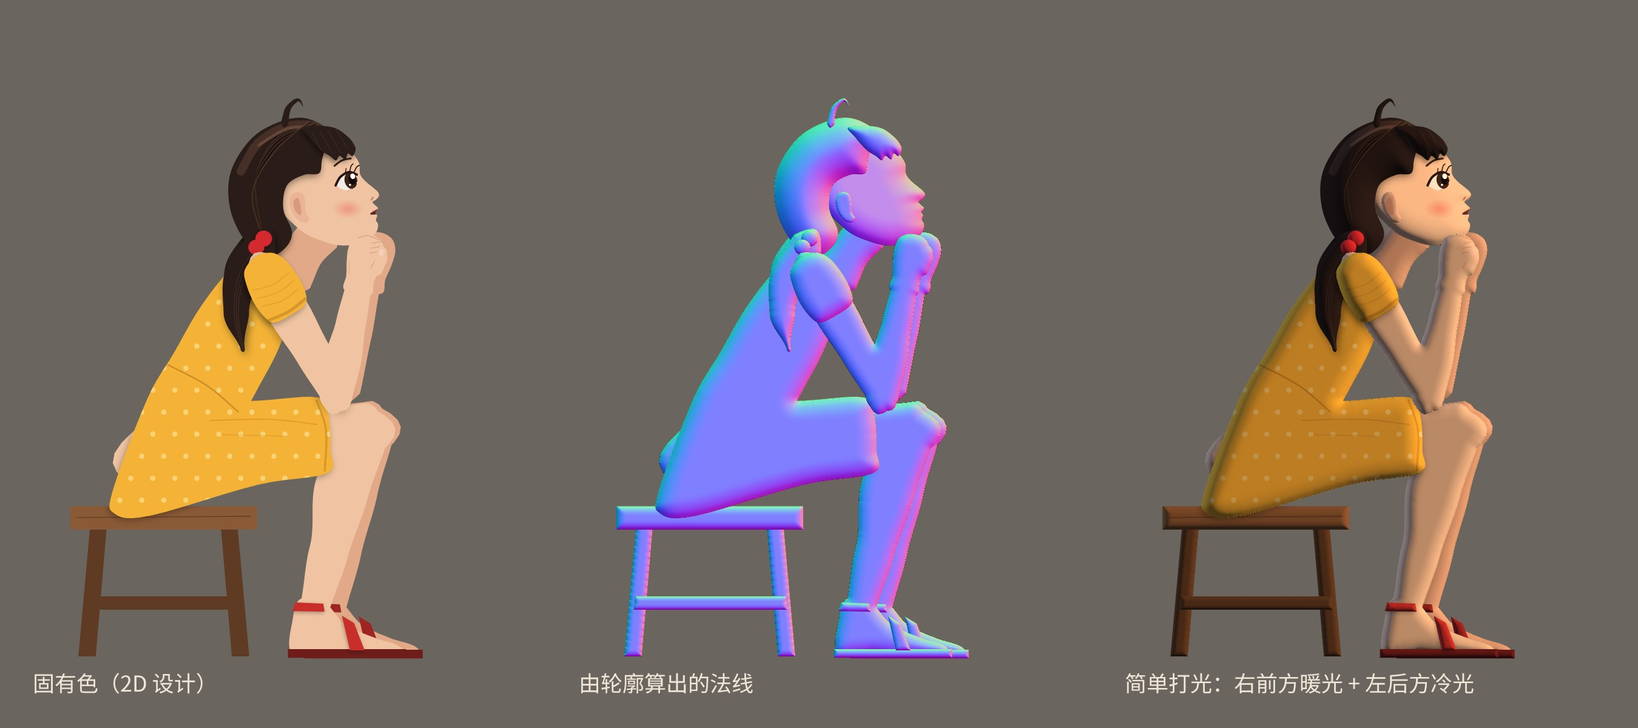
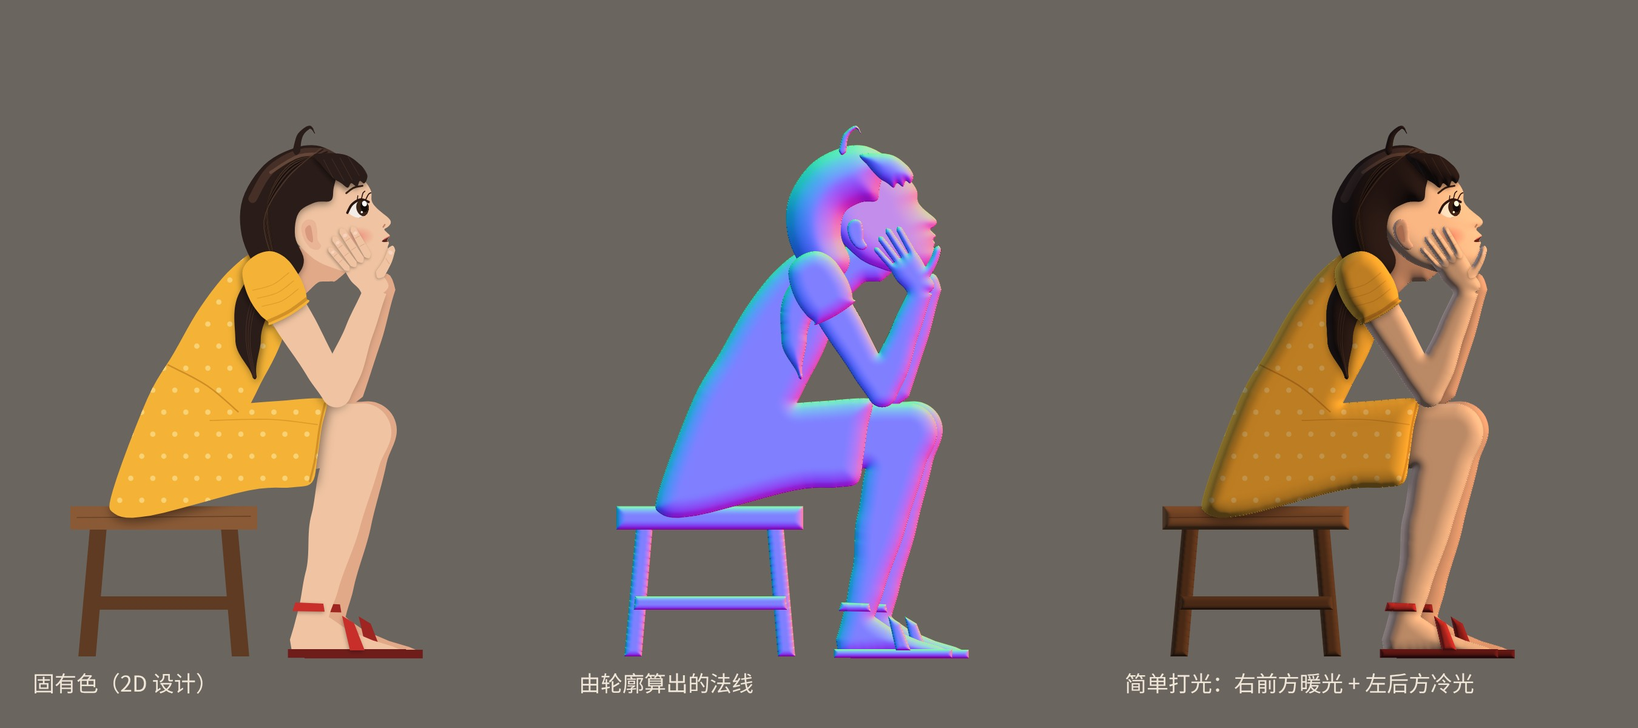
小满：四肢改为一笔外轮廓、手张开托腮、衣服包住身体；修正姿势在两个解之间逐帧跳动
- 整条腿、整条胳膊各是一条连续轮廓：关节外侧是圆弧、内侧是褶，不再是管子拼出的球关节
- 手背朝外、四根手指分开搭在脸颊上，大拇指顺着下颌
- 裙子顺着大腿面盖下来、裙摆斜着包住大腿；泡泡袖的袖口箍住胳膊
- 姿势求解只取前臂竖的那一支并用二分求根（之前两个解来回跳，人在画面里一伸一缩）
- 文档：人物设计说明、AI 使用记录

Claude-Session: https://claude.ai/code/session_018izVeBsCAWYGJUmZwpX2YC

diff --git a/js/lamp/xiaoman.js b/js/lamp/xiaoman.js
@@ -32,6 +32,48 @@ function ellipse(cx, cy, rx, ry, rotA = 0, n = 28) {
   return out;
 }
 
+
+// 一笔画出整条四肢的外轮廓（A 根 → B 关节 → C 末端），像画师画人体那样：
+//   弯曲的外侧绕着关节画一段圆弧（膝盖骨、肘尖），内侧两条轮廓线在关节处相交、挤出一道褶（膝窝、肘窝）；
+//   末端接上脚或手腕。这样整条腿/胳膊是一块连续的肉，不会像拼起来的管子那样在关节处鼓出"球关节"。
+// w1p/w1m：第一段在 +n / −n 两侧的半宽 [[t, w], ...]；w2p/w2m：第二段。extremity(pEnd, mEnd) 返回从 + 侧末端绕到 − 侧末端的点。
+function limbOutline(A, B, C, w1p, w1m, w2p, w2m, extremity = null, step = 0.6) {
+  const sub2 = (a, b) => [a[0] - b[0], a[1] - b[1]], add2 = (a, b) => [a[0] + b[0], a[1] + b[1]], mul2 = (a, k) => [a[0] * k, a[1] * k];
+  const prof = (w, t) => { if (t <= w[0][0]) return w[0][1]; for (let i = 1; i < w.length; i++) if (t <= w[i][0]) { const k = (t - w[i - 1][0]) / (w[i][0] - w[i - 1][0]), e = k * k * (3 - 2 * k); return w[i - 1][1] + (w[i][1] - w[i - 1][1]) * e; } return w[w.length - 1][1]; };
+  const L1 = Math.hypot(...sub2(B, A)), L2 = Math.hypot(...sub2(C, B));
+  const d1 = mul2(sub2(B, A), 1 / L1), d2 = mul2(sub2(C, B), 1 / L2), n1 = [-d1[1], d1[0]], n2 = [-d2[1], d2[0]];
+  const outer = d1[0] * d2[1] - d1[1] * d2[0] > 0 ? -1 : 1;     // 往左拐时 +n 侧在里面
+  const side = (sg, wa, wb) => {
+    const pts = [];
+    const o1 = (t) => add2(add2(A, mul2(d1, L1 * t)), mul2(n1, sg * prof(wa, t)));
+    const o2 = (t) => add2(add2(B, mul2(d2, L2 * t)), mul2(n2, sg * prof(wb, t)));
+    const N1 = Math.max(4, Math.ceil(L1 / step)), N2 = Math.max(4, Math.ceil(L2 / step));
+    if (sg === outer) {
+      for (let i = 0; i <= N1; i++) pts.push(o1(i / N1));
+      // 绕关节的圆弧，半径从第一段末端的半宽过渡到第二段起点的半宽
+      const a0 = Math.atan2(sg * n1[1], sg * n1[0]); let a1 = Math.atan2(sg * n2[1], sg * n2[0]);
+      let da = a1 - a0; while (da > Math.PI) da -= 2 * Math.PI; while (da < -Math.PI) da += 2 * Math.PI;
+      const r0 = prof(wa, 1), r1 = prof(wb, 0), K = Math.max(3, Math.ceil(Math.abs(da) * 8));
+      for (let k = 1; k < K; k++) { const u = k / K, a = a0 + da * u, r = r0 + (r1 - r0) * u; pts.push(add2(B, [Math.cos(a) * r, Math.sin(a) * r])); }
+      for (let i = 0; i <= N2; i++) pts.push(o2(i / N2));
+    } else {
+      // 里侧：两条轮廓线的交点就是褶
+      const p = add2(B, mul2(n1, sg * prof(wa, 1))), q = add2(B, mul2(n2, sg * prof(wb, 0)));
+      const den = d1[0] * d2[1] - d1[1] * d2[0];
+      let u = 0, v = 0;
+      if (Math.abs(den) > 1e-4) { const w = sub2(q, p); u = (w[0] * d2[1] - w[1] * d2[0]) / den; v = (w[0] * d1[1] - w[1] * d1[0]) / den; }
+      u = Math.max(-L1 * 0.6, Math.min(0, u)); v = Math.max(0, Math.min(L2 * 0.6, v));
+      for (let i = 0; i <= N1; i++) { const t = i / N1; if (L1 * t - L1 > u) break; pts.push(o1(t)); }
+      pts.push(add2(p, mul2(d1, u)));
+      for (let i = 0; i <= N2; i++) { const t = i / N2; if (L2 * t < v) continue; pts.push(o2(t)); }
+    }
+    return pts;
+  };
+  const P = side(1, w1p, w2p), M = side(-1, w1m, w2m);
+  const ext = extremity ? extremity(P[P.length - 1], M[M.length - 1]) : [];
+  return [...P, ...ext, ...M.reverse()];
+}
+
 // pose：{ lean 身体前倾（弧度）, headUp 抬头（弧度）, mouth 0..1, blink 0..1, pig 辫子摆动（弧度）, breathe 0..1 }
 // map(p)：局部厘米 → 画面像素
 export function parts(map, pose = {}, s = 7) {
@@ -76,18 +118,34 @@ export function parts(map, pose = {}, s = 7) {
   for (let i = 0; i < 40; i++) { const m = (lo + hi) / 2; const S = spine(m)(31, -0.6); (Math.hypot(S[0] - elbow[0], S[1] - elbow[1]) > 20 ? (lo = m) : (hi = m)); }
   const lean = (lo + hi) / 2, along = spine(lean);
   const shoulder = add(along(31, -0.6), [0, 0.3 * breathe]), neck0 = add(along(34.2, 1.4), [0, 0.3 * breathe]);
-  // 抬头角 hr；前臂角 phi 取使脖子长度最接近 6.5 厘米的那个
+  // 抬头角 hr；手腕在下巴前下方（头的局部坐标 WRIST_L），前臂 16.5 厘米 → 前臂角 phi 由"脖子露出 6.5 厘米"定。
+  // 这个条件一般有两个解（前臂竖一点 / 斜一点）。只取前臂竖的那支，并且用二分求精确的根——
+  // 之前逐帧取"误差最小"的格点，两个解来回跳，人在画面里一伸一缩。
   const hr = pose.headUp ?? 0.30;
-  const chinL = [6.3, -7.7];
-  let best = null;
-  for (let phi = 0.9; phi <= 2.1; phi += 0.004) {
-    const w = add(elbow, mul(dir(phi), 16.5)), top = add(w, mul(dir(phi), 6.6));
-    const hc = sub(top, rot(mul(chinL, HS), hr));
+  const WRIST_L = [4.9, -10.2];
+  const at = (phi) => {
+    const w = add(elbow, mul(dir(phi), 16.5));
+    const hc = sub(w, rot(mul(WRIST_L, HS), hr));
     const nb = add(hc, rot(mul([0.6, -5.2], HS), hr));
-    const e = Math.abs(Math.hypot(nb[0] - neck0[0], nb[1] - neck0[1]) - 6.5);
-    if (!best || e < best.e) best = { e, phi, w, hc };
+    return { w, hc, f: Math.hypot(nb[0] - neck0[0], nb[1] - neck0[1]) - 6.5 };
+  };
+  let phi = 1.35;
+  {
+    const roots = [];
+    let prev = at(0.8);
+    for (let x = 0.8 + 0.01; x <= 2.3; x += 0.01) {
+      const cur = at(x);
+      if (Math.sign(cur.f) !== Math.sign(prev.f)) {
+        let a = x - 0.01, b = x;
+        for (let i = 0; i < 30; i++) { const m = (a + b) / 2; (Math.sign(at(m).f) === Math.sign(at(a).f) ? (a = m) : (b = m)); }
+        roots.push((a + b) / 2);
+      }
+      prev = cur;
+    }
+    if (roots.length) phi = roots[0];                 // 前臂更竖的那一支
+    else { let bestE = Infinity; for (let x = 0.8; x <= 2.3; x += 0.005) { const e = Math.abs(at(x).f); if (e < bestE) { bestE = e; phi = x; } } }
   }
-  const phi = best.phi, wrist = best.w, head = best.hc;
+  const sol = at(phi), wrist = sol.w, head = sol.hc;
   const H = (p) => add(head, rot([p[0] * HS, p[1] * HS], hr));        // 头的局部坐标 → 身体坐标
   const sw = pose.pig ?? 0;
 
@@ -101,37 +159,46 @@ export function parts(map, pose = {}, s = 7) {
   part('stoolRung', [[-11.2, -13], [11.4, -13], [11.6, -15], [-11.4, -15]], { fill: C.stoolDark, R: 0.8, smooth: false });
   part('stoolSeat', [[-14, 0.5], [14, 0.5], [14, -3], [-14, -3]], { fill: C.stool, R: 1.4, smooth: false,
     detail: (c) => { strokeL(c, [[-13, -1.2], [13, -1.0]], 0.12, 'rgba(60,35,20,0.5)'); } });
-  // ---------------- 远侧的腿和胳膊（在暗处，颜色深一点；大半被近侧挡住）
-  const legShape = (k, a, grp, fill, extraShadow) => {
-    const kd = norm(sub(k, hip));
-    part(grp + 'Thigh', tubeL([add(hip, mul(kd, -2)), lerp(hip, k, 0.5), add(k, mul(kd, 0.6))], [[5.6, 5.8], [5.0, 5.4], [4.3, 4.4]]), { fill, R: 2.2, flat: 0.4, mat: 1, group: grp, groupR: 2.2 * s });
-    // 小腿：前面（胫骨）直，后面（小腿肚）鼓
-    part(grp + 'Shin', tubeL([add(k, [0, 0.4]), lerp(k, a, 0.32), lerp(k, a, 0.7), a], [[4.0, 4.2], [3.3, 4.9], [2.7, 3.2], [2.1, 2.3]]), { fill, R: 2.2, flat: 0.4, mat: 1, group: grp });
-    part(grp + 'Foot', footPts(a), { fill, R: 2.2, flat: 0.4, mat: 1, group: grp });
+  // ---------------- 腿：一笔外轮廓（大腿面 → 膝盖骨 → 胫骨 → 脚背 → 脚趾 → 脚底 → 脚跟 → 跟腱 → 小腿肚 → 膝窝的褶 → 大腿底面）
+  const legShape = (k, a, grp, fill, near) => {
+    const foot = (pEnd, mEnd) => [
+      [a[0] + 2.7, a[1] - 0.9], [a[0] + 5.0, a[1] - 2.5], [a[0] + 8.8, a[1] - 4.1], [a[0] + 11.8, a[1] - 5.0], [a[0] + 13.2, a[1] - 5.6],
+      [a[0] + 13.3, a[1] - 6.2], [a[0] + 12.2, a[1] - 6.5], [a[0] + 8.0, a[1] - 6.45], [a[0] + 4.6, a[1] - 6.0], [a[0] + 1.2, a[1] - 6.3],
+      [a[0] - 2.0, a[1] - 6.5], [a[0] - 3.3, a[1] - 5.8], [a[0] - 3.6, a[1] - 4.0], [a[0] - 3.0, a[1] - 2.0]];
+    const out = limbOutline(add(hip, [-1.5, 0.5]), k, a,
+      [[0, 6.0], [0.5, 5.6], [0.85, 4.8], [1, 4.4]],            // 大腿面
+      [[0, 6.0], [0.5, 5.5], [0.85, 4.6], [1, 4.3]],            // 大腿底面
+      [[0, 4.3], [0.15, 3.7], [0.5, 3.3], [0.85, 2.6], [1, 2.3]],   // 小腿前面（胫骨，几乎是直的）
+      [[0, 4.1], [0.25, 4.8], [0.5, 4.2], [0.8, 2.8], [1, 2.4]],   // 小腿肚
+      foot);
+    part(grp, out, { fill, R: 2.6, flat: 0.35, mat: 1, smooth: false,
+    });
   };
-  legShape(kneeF, ankleF, 'legF', C.skinDeep);
+  // 远侧的腿（在暗处，颜色深一点，大半被近侧挡住）
+  legShape(kneeF, ankleF, 'legF', C.skinDeep, false);
   part('sandalF', sandalPts(ankleF), { fill: C.sole, R: 0.8, smooth: false });
   strapPts(ankleF).forEach((q, i) => part('strapF' + i, q, { fill: '#9e2522', R: 0.8, smooth: false }));
-  // 远侧的拳头：在近侧拳头后面、略靠前，只露出指节
-  const fd = dir(phi), fp = [-fd[1], fd[0]];
-  const FW = (base, u, v) => add(base, add(mul(fd, u), mul(fp, v)));
-  const wristF = add(wrist, add(mul(fd, 0.6), mul(fp, -1.6)));
-  part('armF', tubeL([add(elbow, [1.4, 0.4]), lerp(add(elbow, [1.4, 0.4]), wristF, 0.5), wristF], [2.2, 2.0, 1.6]), { fill: C.skinDeep, R: 1.8, flat: 0.4, mat: 1, group: 'armF', groupR: 1.8 * s });
-  part('fistF', fistPts().map(([u, v]) => FW(wristF, u, v)), { fill: C.skinDeep, R: 1.8, flat: 0.4, mat: 1, group: 'armF' });
-  // ---------------- 近侧的腿：大腿（大半在裙子里）、膝盖、小腿、脚——一个组，膝盖和脚踝是连着的肉
-  legShape(knee, ankle, 'legN', C.skin);
+  // 远侧的前臂：在近侧胳膊后面，手托在远侧脸颊上（被头挡住）
+  const fd = dir(phi);
+  const wristF = add(wrist, [1.2, 0.6]);
+  part('armF', tubeL([add(elbow, [1.6, 0.2]), lerp(add(elbow, [1.6, 0.2]), wristF, 0.3), wristF], [2.5, 2.4, 1.9]), { fill: C.skinDeep, R: 1.9, flat: 0.4, mat: 1, smooth: false });
+  // ---------------- 近侧的腿
+  legShape(knee, ankle, 'legN', C.skin, true);
   part('sandal', sandalPts(ankle), { fill: C.sole, R: 0.8, smooth: false });
   strapPts(ankle).forEach((q, i) => part('strap' + i, q, { fill: C.sandal, R: 0.8, smooth: false, shadow: [-0.1, -0.2, 0.3, 0.3] }));
   // ---------------- 身体 + 裙子：后背微微拱起（身子前倾）；裙子盖住大腿到膝盖上面一点
-  const hemT = 0.8;
+  // 裙子顺着大腿面盖下来（裙子上沿 = 大腿面 + 布的厚度），裙摆斜着包住大腿：上面盖到膝盖前一点，下面短一点，
+  // 在大腿底下垂一点。膝盖和小腿从裙摆底下自然伸出来，裙摆在腿上投一点影子（不是"安"在裙子外面的一截腿）。
+  const hemTop = 0.84, hemBot = 0.72;
   const dress = [
     along(33.6, -3.4), along(29.5, -6.0), along(22, -7.0), along(14, -6.8), along(6, -6.6),       // 后背
     [-7.6, 3.0], [-7.4, -0.6], [-2, -0.9],                                                            // 坐在凳面上的臀部
-    onThigh(0.45, -5.9), onThigh(hemT, -5.4), onThigh(hemT + 0.03, -2.0),                             // 大腿底下 → 裙摆
-    onThigh(hemT + 0.04, 3.0), onThigh(hemT, 6.0), onThigh(0.5, 6.6), onThigh(0.2, 7.2),               // 裙摆 → 腿面
+    onThigh(0.4, -6.6), onThigh(0.62, -6.9), onThigh(hemBot, -6.5),                                    // 大腿底下垂着的裙子
+    onThigh((hemBot * 2 + hemTop) / 3, -3.0), onThigh((hemBot + hemTop * 2) / 3, 1.5), onThigh(hemTop, 5.0),   // 斜着的裙摆，包住大腿
+    onThigh(hemTop - 0.04, 5.9), onThigh(0.6, 6.2), onThigh(0.3, 6.6), onThigh(0.1, 7.0),               // 腿面（贴着大腿面）
     along(10, 6.2), along(18, 6.6), along(25, 5.8), along(30.8, 3.4),                                  // 肚子、胸口
   ];
-  part('dress', dress, { fill: C.dress, R: 3.0, flat: 0.4, mat: 3, extra: 0.3, shadow: [-0.2, -0.3, 0.5, 0.3],
+  part('dress', dress, { fill: C.dress, R: 3.0, flat: 0.4, mat: 3, extra: 0.3, shadow: [0.3, -0.6, 0.8, 0.45],
     detail: (c) => {
       for (let i = -8; i < 14; i++) for (let j = -3; j < 14; j++) {
         const q = add(hip, [i * 3.3 + (j % 2) * 1.65, j * 3.3]);
@@ -139,9 +206,8 @@ export function parts(map, pose = {}, s = 7) {
       }
       // 腰线（前倾时腰在肚子那里折一下）、腿面上布料被拉出的褶、裙摆的一道边
       strokeL(c, [along(12, -6.6), along(12.4, 0), along(11.5, 6.0)], 0.22, 'rgba(160,96,20,0.45)');
-      strokeL(c, [onThigh(0.25, 4.5), onThigh(0.55, 3.6), onThigh(hemT - 0.02, 2.0)], 0.15, 'rgba(160,96,20,0.3)');
-      strokeL(c, [onThigh(0.3, 2.2), onThigh(0.62, 0.8)], 0.12, 'rgba(160,96,20,0.25)');
-      strokeL(c, [onThigh(hemT - 0.01, 5.6), onThigh(hemT + 0.02, 1), onThigh(hemT - 0.01, -5.0)], 0.3, 'rgba(160,96,20,0.35)');
+      strokeL(c, [onThigh(0.25, 4.5), onThigh(0.55, 3.6), onThigh(hemTop - 0.06, 2.0)], 0.15, 'rgba(160,96,20,0.3)');
+      strokeL(c, [onThigh(hemTop - 0.01, 5.0), onThigh((hemBot + hemTop * 2) / 3 - 0.01, 1.5), onThigh((hemBot * 2 + hemTop) / 3 - 0.01, -3.0), onThigh(hemBot - 0.01, -6.3)], 0.32, 'rgba(160,96,20,0.4)');   // 裙摆的折边
     } });
   // 白色小圆领
   part('collar', [along(33.8, -3.2), along(35.2, -1.4), along(35.4, 2.2), along(32.6, 4.2), along(30.0, 3.8), along(30.6, 0.4), along(31.2, -2.6)],
@@ -219,42 +285,56 @@ export function parts(map, pose = {}, s = 7) {
     detail: (c) => { for (let i = -1; i <= 1; i++) strokeL(c, pig.map((p, k) => add(p, [i * 0.6 * (1 - k / 4), 0])), 0.1, 'rgba(90,62,50,0.55)'); } });
   part('tie1', ellipse(...add(tie, [0.3, 0.7]), 1.25, 1.2), { fill: C.tie, R: 1.1, mat: 3, extra: 0.6, shadow: [-0.2, -0.3, 0.4, 0.4] });
   part('tie2', ellipse(...add(tie, [-0.8, -0.6]), 1.2, 1.15), { fill: C.tie, R: 1.1, mat: 3, extra: 0.6 });
-  // ---------------- 近侧的胳膊：上臂（三角肌那里厚、往肘收）→ 肘尖 → 前臂（靠肘处肌肉鼓、往手腕收细）→ 拳头托着下巴
-  // 一个组：手肘、手腕连着，不出接缝
+  // ---------------- 近侧的胳膊：一笔外轮廓（后面：三角肌 → 肱三头肌 → 肘尖 → 前臂背面；前面：前臂掌面 → 肘窝的褶 → 肱二头肌）
   const ud = norm(sub(elbow, shoulder)), un = [-ud[1], ud[0]];
-  part('upperArm', tubeL([add(shoulder, mul(ud, -1.0)), lerp(shoulder, elbow, 0.35), lerp(shoulder, elbow, 0.75), add(elbow, mul(ud, 0.6))], [[3.3, 3.2], [3.1, 3.1], [2.7, 2.7], [2.4, 2.4]]),
-    { fill: C.skin, R: 1.9, flat: 0.4, mat: 1, group: 'armN', groupR: 1.9 * s, shadow: [-0.3, -0.4, 0.6, 0.25] });
-  part('elbowPt', ellipse(...add(elbow, add(mul(ud, 0.3), mul(un, -0.6))), 2.3, 2.1, Math.atan2(ud[1], ud[0])), { fill: C.skin, R: 1.9, flat: 0.4, mat: 1, group: 'armN' });
-  part('forearm', tubeL([add(elbow, mul(fd, -0.8)), add(elbow, mul(fd, 3.5)), lerp(elbow, wrist, 0.6), wrist], [[2.5, 2.5], [2.8, 2.7], [2.25, 2.25], [1.95, 1.95]]),
+  const armOut = limbOutline(add(shoulder, mul(ud, -1.2)), elbow, wrist,
+    [[0, 3.1], [0.4, 2.9], [0.85, 2.4], [1, 2.3]],                // 上臂前面（肱二头肌）
+    [[0, 3.2], [0.35, 3.0], [0.8, 2.5], [1, 2.2]],                // 上臂后面（肱三头肌）
+    [[0, 2.4], [0.2, 2.75], [0.6, 2.2], [1, 1.75]],               // 前臂靠身体一侧（肌肉在靠肘处鼓）
+    [[0, 2.2], [0.25, 2.5], [0.6, 2.05], [1, 1.75]], null);       // 前臂外侧（尺骨，比较直）
+  part('arm', armOut, { fill: C.skin, R: 1.9, flat: 0.4, mat: 1, group: 'armN', groupR: 1.9 * s, smooth: false, shadow: [-0.3, -0.4, 0.6, 0.25] });
+  // ---------------- 手：张开托着脸颊。手背朝外，四根手指分开搭在脸颊上，大拇指顺着下颌往前
+  // 手的局部坐标：u 从手腕指向中指指尖，v 往脸的前面（大拇指那边）为正
+  const tipL = [2.4, -1.4];                                         // 中指指尖落在脸颊上（头的局部坐标）
+  const hd = norm(sub(H(tipL), wrist)), hv0 = [-hd[1], hd[0]];
+  const hv = hv0[0] > 0 ? hv0 : mul(hv0, -1);                       // 让 v 朝前
+  const HW = (u, v) => add(wrist, add(mul(hd, u), mul(hv, v)));
+  const handLen = Math.hypot(...sub(H(tipL), wrist));
+  const palmL = handLen * 0.53;                                     // 手掌约占手长一半
+  part('palm', [[-0.8, 1.75], [1.5, 2.15], [palmL * 0.6, 2.45], [palmL, 2.35], [palmL + 0.3, 1.2], [palmL + 0.3, -1.0], [palmL, -2.1], [palmL * 0.6, -2.35], [1.5, -2.0], [-0.8, -1.75]].map(([u, v]) => HW(u, v)),
     { fill: C.skin, R: 1.9, flat: 0.4, mat: 1, group: 'armN' });
-  const NW = (u, v) => FW(wrist, u, v);
-  part('fist', fistPts().map(([u, v]) => NW(u, v)), { fill: C.skin, R: 1.9, flat: 0.4, mat: 1, group: 'armN',
-    detail: (c) => {
-      // 弯着的四根手指：指节之间的缝，第二节指节的小窝
-      for (let i = 0; i < 3; i++) strokeL(c, [NW(5.0 + i * 0.75, -0.6), NW(5.6 + i * 0.75, -2.1)], 0.09, 'rgba(176,104,84,0.5)');
-      strokeL(c, [NW(6.9, 1.6), NW(7.5, 0.2), NW(7.2, -1.6)], 0.1, 'rgba(176,104,84,0.45)');
-      strokeL(c, [NW(1.2, 1.8), NW(3.2, 2.2)], 0.08, 'rgba(176,104,84,0.3)');
-    } });
-  // 大拇指：压在食指外侧，指甲朝外
-  // 大拇指压在食指外侧：和拳头是一块肉（同一组），只用一道浅浅的折痕和指甲把它勾出来
-  part('thumb', tubeL([NW(2.6, -2.0), NW(4.4, -2.5), NW(5.8, -2.3)], [0.95, 0.85, 0.7]), { fill: C.skin, R: 1.9, flat: 0.4, mat: 1, group: 'armN',
-    detail: (c) => { strokeL(c, [NW(2.8, -1.2), NW(4.4, -1.6), NW(5.6, -1.5)], 0.1, 'rgba(176,104,84,0.45)'); fillL(c, [NW(5.0, -2.55), NW(5.8, -2.6), NW(5.85, -2.05), NW(5.05, -1.95)], 'rgba(244,206,192,0.9)'); } });
+  // 四根手指：食指在前，小指在后，微微张开；每根是圆头的细长条，带两道指节纹和指甲
+  const fingers = [[1.85, 0.07, 0.86, 0.56], [0.62, 0.0, 1.0, 0.58], [-0.62, -0.07, 0.92, 0.55], [-1.8, -0.15, 0.72, 0.48]];
+  fingers.forEach(([v0, ang, lenK, w], i) => {
+    const len = (handLen - palmL) * lenK + 0.3;
+    const fdir = rot(hd, ang * (hv === hv0 ? 1 : -1));
+    const base = HW(palmL - 0.3, v0), tip = add(base, mul(fdir, len));
+    const pts = tubeL([base, lerp(base, tip, 0.5), tip], [w, w * 0.95, w * 0.85]);
+    part('finger' + i, pts, { fill: C.skin, R: 1.9, flat: 0.4, mat: 1, group: 'armN', smooth: false, shadow: [-0.12, -0.18, 0.25, 0.3],
+      detail: (c) => {
+        const fn = [-fdir[1], fdir[0]];
+        for (const k of [0.38, 0.7]) { const q = lerp(base, tip, k); strokeL(c, [add(q, mul(fn, -w * 0.7)), add(q, mul(fn, w * 0.7))], 0.07, 'rgba(170,100,84,0.45)'); }
+        const nb = lerp(base, tip, 0.82);
+        fillL(c, ellipse(...add(nb, mul(fdir, 0.15)), w * 0.55, w * 0.42, Math.atan2(fdir[1], fdir[0]) + Math.PI / 2, 12), 'rgba(248,214,200,0.85)');   // 指甲
+      } });
+  });
+  // 大拇指：从手掌靠手腕的地方伸出来，顺着下颌往前（两节）
+  const tb = HW(1.6, 1.9), tdir = norm(add(mul(hd, 0.45), mul(hv, 0.9)));
+  const tm = add(tb, mul(tdir, 2.2)), tt = add(tm, mul(norm(add(tdir, mul(hd, 0.25))), 1.9));
+  part('thumb', tubeL([tb, tm, tt], [0.72, 0.62, 0.55]), { fill: C.skin, R: 1.9, flat: 0.4, mat: 1, group: 'armN', smooth: false, shadow: [-0.1, -0.15, 0.2, 0.25],
+    detail: (c) => { strokeL(c, [add(tm, mul(hd, -0.5)), add(tm, mul(hd, 0.5))], 0.07, 'rgba(170,100,84,0.45)'); fillL(c, ellipse(...lerp(tm, tt, 0.72), 0.36, 0.28, Math.atan2(tdir[1], tdir[0]) + Math.PI / 2, 12), 'rgba(248,214,200,0.85)'); } });
   // 泡泡袖：肩头鼓起来的灯笼形，袖口收一道边（盖住上臂上面一小半）
   const A = (u, v) => add(shoulder, add(mul(ud, u), mul(un, v)));
-  const sl = [A(-3.0, 2.3), A(-1.0, 3.5), A(2.4, 3.9), A(5.2, 3.5), A(6.3, 2.5), A(6.5, 0), A(6.3, -2.5), A(5.2, -3.4), A(2.4, -3.8), A(-0.7, -3.4), A(-2.8, -2.5), A(-3.7, 0)];
+  const sl = [A(-3.2, 2.4), A(-1.0, 3.8), A(2.2, 4.1), A(4.4, 3.8), A(5.6, 3.35), A(6.2, 3.3), A(6.5, 0), A(6.2, -3.35), A(5.6, -3.4), A(4.2, -3.9), A(1.6, -4.1), A(-1.2, -3.6), A(-3.2, -2.5), A(-3.9, 0)];
   part('sleeve', sl, { fill: C.dress, R: 2.4, flat: 0.3, mat: 3, extra: 0.3, shadow: [-0.3, -0.4, 0.5, 0.35],
     detail: (c) => {
-      strokeL(c, [A(5.5, -3.2), A(5.9, 0), A(5.5, 3.2)], 0.45, 'rgba(160,96,20,0.35)');
+      strokeL(c, [A(5.6, -3.3), A(5.9, 0), A(5.6, 3.3)], 0.5, 'rgba(160,96,20,0.4)');   // 袖口收的那道边，箍在胳膊上
       for (let i = 0; i < 3; i++) strokeL(c, [A(0.4 + i * 1.4, -3.0), A(1.2 + i * 1.4, 0), A(0.9 + i * 1.4, 3.0)], 0.12, 'rgba(160,96,20,0.25)');
     } });
-  P.joints = { hip, knee, ankle, kneeF, ankleF, neck0, head, shoulder, elbow, wrist, chest: along(20, 1), belly: along(10, 0), lean, phi };
+  P.joints = { hip, knee, ankle, kneeF, ankleF, neck0, head, shoulder, elbow, wrist, chest: along(20, 1), belly: along(10, 0), lean, phi, tip: H(tipL) };
   return P;
 }
 
-// 拳头（手腕局部坐标：u 沿前臂往上，v 往她身后为正）：手背、弯着的四指、指节顶着下巴
-function fistPts() {
-  return [[-1.2, 1.95], [1.0, 2.15], [3.2, 2.55], [5.0, 2.7], [6.7, 2.3], [7.6, 1.0], [7.7, -0.6], [7.0, -2.0], [5.4, -2.7], [3.2, -2.55], [1.0, -2.1], [-1.2, -1.95]];
-}
 function footPts(a) {
   // 脚：脚跟圆、脚背从脚踝斜着下去、足弓、脚趾圆头；长约 17 厘米，脚踝处高约 6.5 厘米
   return [[a[0] - 2.2, a[1] + 2.0], [a[0] + 1.4, a[1] + 1.8], [a[0] + 4.6, a[1] - 1.6], [a[0] + 8.8, a[1] - 3.6], [a[0] + 12.0, a[1] - 4.6],

diff --git a/docs/ai-usage-log.md b/docs/ai-usage-log.md
@@ -20,6 +20,7 @@
 | 2026-10-10 | 引擎 | 编写渲染程序：光线追踪场景、真实光源与软阴影、床单两面受光与床单发光、皮影透射、人物连续形体与 IK、五官贴花、三种画风合成 | — |
 | 2026-10-10 | 设计 | 物理计算暴露并修正了几处布景：马灯吊高会让油壶的影子压暗床单下半截（改到 1.55 米）；艺人必须站在灯两侧稍后、手低于灯，手影才不上幕；签子影子因此从皮影往下伸出幕外。剧本和平面图已同步 | （待团队确认） |
 | 2026-10-10 | 设计 | 自查设计稿并修正：东西墙贴图镜像、电视屏幕形状、日光灯下脸被压黑（空场景没有墙反光）、夜景太黑（马灯贴着立柜门被挡住一半光）、奶奶坐着膝盖穿出裤子、皮影设计稿裁掉了头。动态小样原来从后台拍，鹤太小、奶奶的胳膊在前景像枕头，改为第 6 场正面；渲染发现火苗只有 1 厘米，皮影离床单十几厘米影子仍然很清楚，要"大而虚"必须举到灯跟前——剧本第 6 场的写法据此调整 | — |
+| 2026-10-16 | 设计（第四版） | 小满的四肢改为一笔外轮廓（膝盖、肘的外侧是圆弧、内侧是褶，不再是管子拼出的"球关节"）；手改为张开托着脸颊、有手指；裙子包住大腿、袖口箍住胳膊；修正姿势求解在两个解之间逐帧跳动（人一伸一缩）；加了逐帧位移检查和逐帧图检查 | **团队反馈：** 小满还是有很多人偶一样的关节点，手像戴手套，腿像零件安上去、像"安"在裙子外面；视频里小满在快速伸缩；要自己多检查实际画面；可以分开拼但显示上要正常，皮肤纹理不是重点 |
 | 2026-10-13 | 设计（第四版） | 按团队意见：鹤用素的配色；布景减量并改成《龟与鹤》原作的湖面、荷花、垂柳（去掉芦苇和松枝）；小满重做身体——姿势改为手肘撑膝、拳头托下巴，比例按 9 岁女孩的人体尺寸，姿势由关节长度解出来；同一块皮肉合起来算法线，消除肘、腕、膝、踝的"木偶关节"；查出并修掉两处造成接缝的渲染问题（同组部件的接触阴影、材质编号被抗锯齿取整）和眼睛高光的红蓝边（色差效果在高动态范围下漏光）；鹤抬起的腿加惯性摆动；重渲关键镜头 | **团队决定：** 倾向素的配色；布景合理减量。**团队反馈：** 人物不能有一眼看得出的"关节"，要像灵动的人而不是木偶；有的身体部位和姿势太粗糙、不符合人体结构；重渲时皮影画面和人物动作都很重要 |
 | 2026-10-13 | 设计（第四版） | 回答团队对皮影颜色和布景的疑问并修改：颜色本身符合中国皮影（染色牛皮透光），但按真实条件压淡（马灯暖光、床单厚会散光）；鹤改为素的配色（本色、黑、丹顶红），艳版留作对比；松枝用晾衣夹、水纹条用别针固定在床单上（奶奶两手都在操纵鹤）；布景片的来历（奶奶在戏班演过戏）待写进剧本 | **团队反馈：** 人物还要好好打磨；皮影为什么颜色这么丰富、是否合理，还有枝条之类的装饰 |
 | 2026-10-12 | 设计（第四版） | 不再出多种画法，按"一盏灯照亮的世界"把第 6 场鹤亮相做到接近正片质量：写了 WebGL 光照引擎（屋子逐像素求交、床单作面光源、马灯从布帘缝漏光带半影、月光、软影子、空气散射、泛光与调色）；人物改为 2D 设计、由轮廓算法线再参与光照的"卡片"；重新设计小满（自然比例、侧脸、双手托腮）、鹤皮影（染色牛皮透光、镂空纹样）和皮影布景（荷塘、松枝）；出静帧和 5 秒动态 | **团队反馈（对第三版）：** 人物自己也是剪纸风很奇怪；担心故事做代码动画比不过网上精良的画风；剪影的人物看起来恐怖。据此第四版里人物的脸迎着光、被照亮，不用剪影 |

diff --git a/docs/design/character-design.md b/docs/design/character-design.md
@@ -8,13 +8,17 @@
   红脸蛋；齐刘海分成几绺、头顶一撮呆毛、耳后扎辫子系红绒球；黄色连衣裙（小白点）、泡泡袖、白色小圆领；红凉鞋。
 - **画法：** 每块形状（脸、头发、刘海、耳朵、胳膊、手、袖子、裙子……）先填固有色、画五官和花纹，再由轮廓做距离变换，离边越远"鼓"得越高，得到法线。
   边上的法线是横的，被侧光、逆光勾出亮边；中间朝着镜头。脸的法线往她面朝的方向偏一点，迎着床单的光。皮肤的暗部带一点暖（皮下散射）。
-- **第 6 场的姿势：** 坐在小板凳上，身子往前探，**手肘撑在膝盖上，两只拳头托着下巴**，抬头看床单上的鹤（孩子看入迷时最自然、也最稳的坐姿——手肘悬空是撑不住的）；
-  跟着鹤扬起脖子慢半拍抬头（拳头跟着头动）、嘴张大、眨眼。
-- **比例按 9 岁女孩的人体尺寸**（约 1.32 米，头略放大到 1.1 倍）：上臂 20、前臂 16.5、拳头 7、大腿 30、小腿 28（膝到踝）、脚 17 厘米；脖子露出 6～7 厘米。
-- **姿势是解出来的，不是摆出来的：** 手肘落在膝盖上 → 由上臂长度反推身子前倾的角度；拳头顶着下巴、脖子保持 6～7 厘米 → 定出前臂角度和头的位置。所以四肢长度永远不变，抬头时手跟着动也不会"拉长"。
-- **不出"木偶关节"：** 同一块皮肉（上臂-肘-前臂-拳头-大拇指、大腿-膝-小腿-脚）合成一个轮廓再算法线，肘、腕、膝、踝是连着的肉；
-  形状按解剖画（三角肌处厚、往肘收；前臂靠肘处鼓、往手腕收细；小腿前面直、后面小腿肚鼓；肘尖、指节、足弓）。
-  调试时查出的两处"接缝"来源都已修掉：同组部件之间画了接触阴影；材质编号在部件边缘被抗锯齿取整成了别的材质（见 `js/lamp/cards.js`）。
+- **第 6 场的姿势：** 坐在小板凳上，身子往前探，**手肘撑在膝盖上，手张开托着脸颊**（手背朝外，四根手指分开搭在脸颊上，大拇指顺着下颌）；
+  跟着鹤扬起脖子慢半拍抬头、嘴张大、眨眼。手肘悬空是撑不住的，所以撑在膝盖上。
+- **比例按 9 岁女孩的人体尺寸**（约 1.32 米，头略放大到 1.1 倍）：上臂 20、前臂 16.5、手 12、大腿 30、小腿 28（膝到踝）、脚 17 厘米。
+- **四肢是一笔外轮廓，不是管子拼的**（团队指出：关节像人偶、手像戴手套、腿像"安"在裙子外面的零件）：
+  - 整条腿：大腿面 → 膝盖骨 → 胫骨 → 脚背 → 脚趾 → 脚底 → 脚跟 → 跟腱 → 小腿肚 → 膝窝 → 大腿底面，一条连续的轮廓；
+  - 整条胳膊：肱三头肌 → 肘尖 → 前臂外侧 → 手腕 → 前臂内侧 → 肘窝 → 肱二头肌；
+  - 关节弯曲的外侧是一段圆弧，内侧是两条轮廓线相交挤出的褶，所以不会鼓出"球关节"；
+  - 衣服包着身体：裙子顺着大腿面盖下来，裙摆斜着包住大腿、在腿下面垂一点，膝盖从裙摆底下伸出来；泡泡袖的袖口箍在胳膊上，胳膊从袖口里伸出来。
+- **姿势是解出来的：** 手肘落在膝盖上 → 由上臂长度推出身子前倾的角度；手腕在下巴前下方、前臂长度固定、脖子露出 6.5 厘米 → 定出前臂角度和头的位置。
+  这个条件一般有两个解，**只取前臂竖的那一支**，用二分求精确的根（第二稿逐帧取"误差最小"的格点，两个解来回跳，人在画面里一伸一缩——已修正）。
+- **检查方法：** 渲染前用程序算出每帧头、手腕、手肘、肩、指尖的位移，相邻帧超过阈值就报出来；渲染后把人物所在区域连续几十帧拼成逐帧图，看动作。
 - 奶奶：这个镜头里没有出现，方向确定后按同样的画法重新设计。
 
 ## 第三版（已被第四版取代）：剪纸片式的纸人
